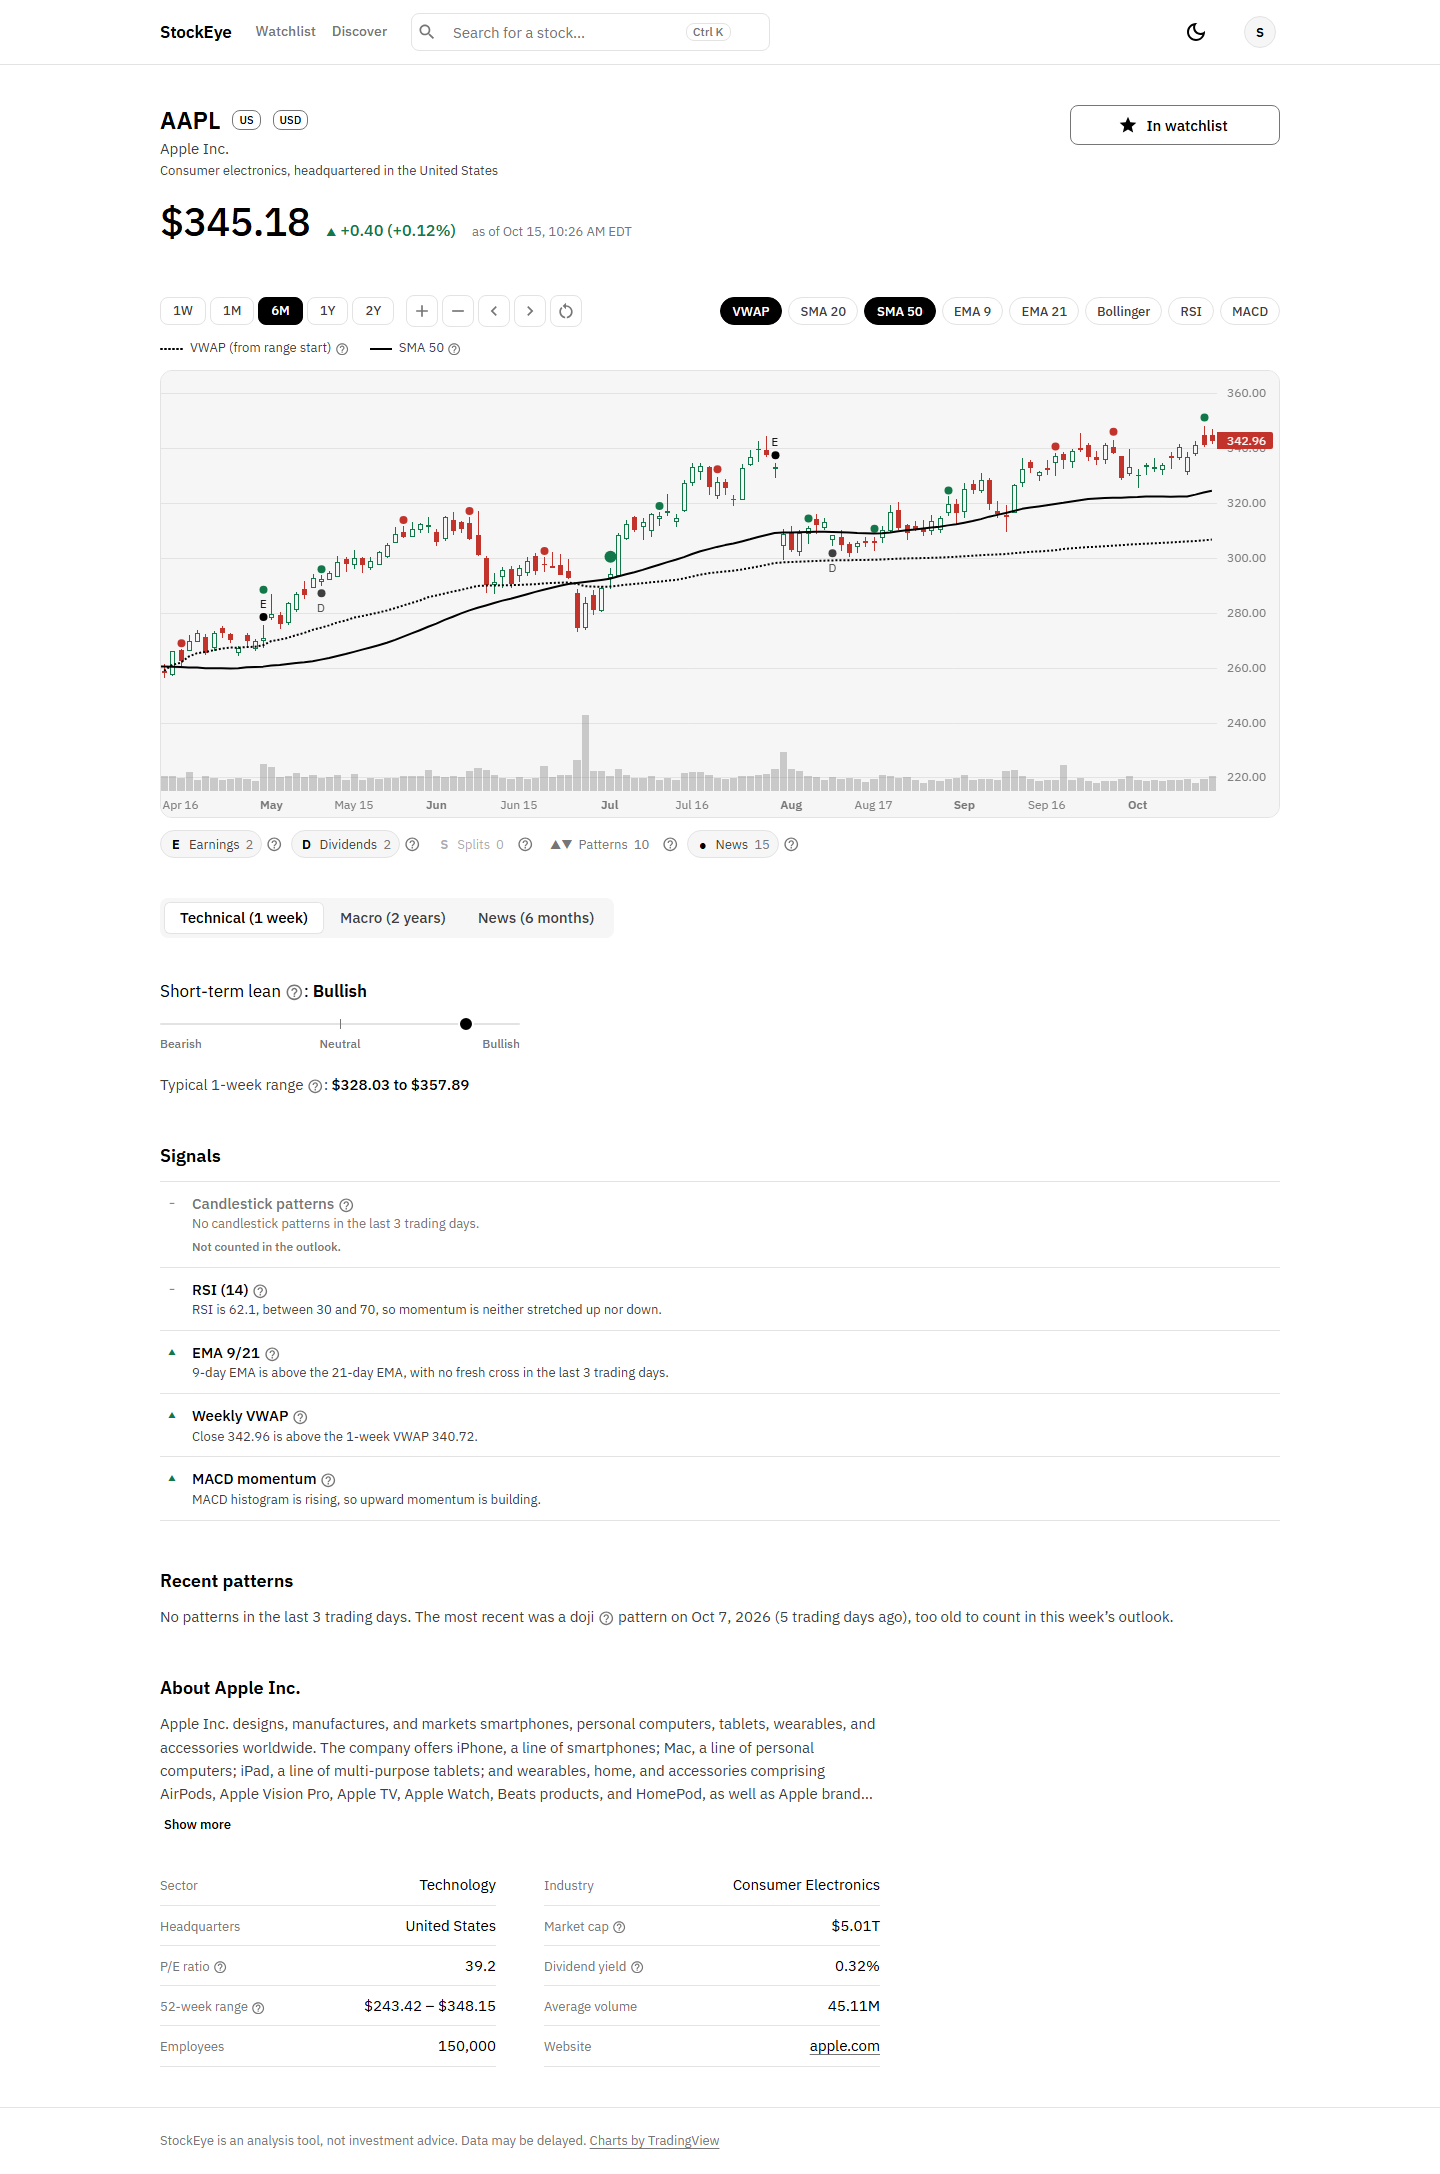
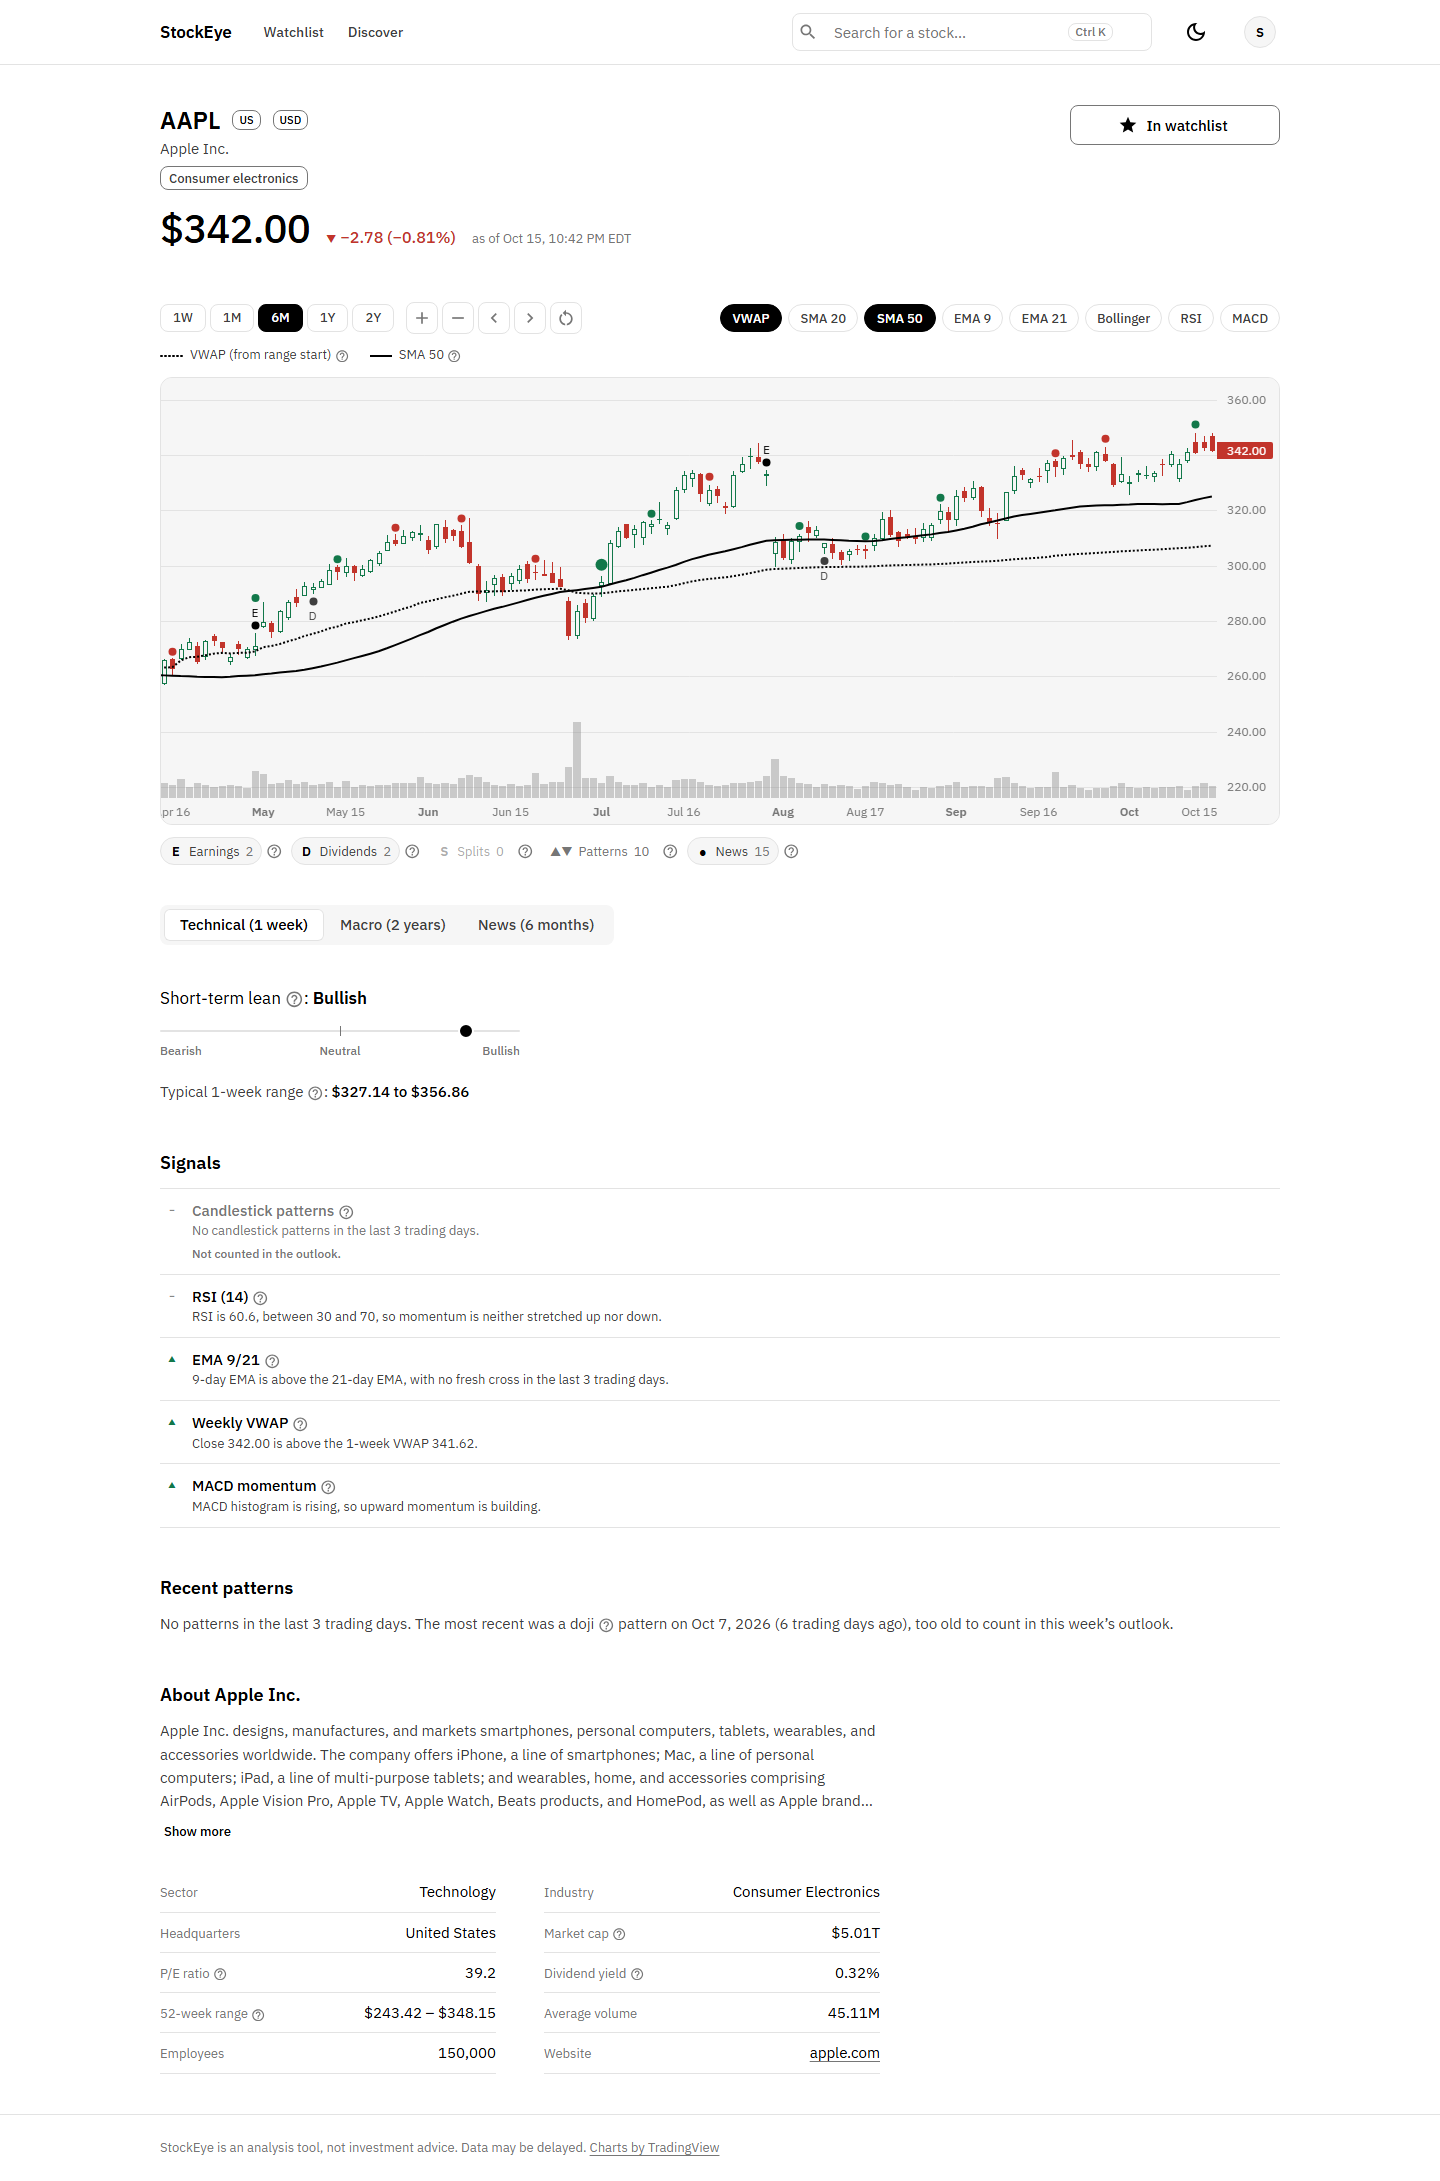
docs: phase 8 status; re-shoot screenshots

diff --git a/docs/PLAN.md b/docs/PLAN.md
@@ -559,3 +559,41 @@ macro wording; a security review for the changed news endpoint.
   `production` approval.
 - Follow-ups: `test_discover.py::test_a_marker_older_than_six_hours_no_longer_blocks_the_startup_build` flakes under full-suite
   load (passes alone); Dependabot major bumps.
+
+## Phase 8 (approved 2026-10-16): polish from Phase 7 testing
+
+The user tested Phase 7 locally and chose these options from `.handoff/sdd/report-P8.md`:
+
+| Item | Choice | What |
+|---|---|---|
+| Count chips | 1A | Count in a small bordered badge on the shared baseline; the selected chip's badge inverts |
+| Header line | 2A | Industry as an outlined sentence-case chip under the name; no "headquartered in…" (still in About) |
+| News months on phones | 3A | Chips on desktop, a themed select below `sm`; a one-line intro with one combined "?" term |
+| Sentiment chart | 4A | 8–12 px plot padding; the captions become a small axis with space around it |
+| Article volume | 5A + 5C | Drop same-day near-duplicates and low-value items at ingest; `is_recap`/`is_low_value` flags; delete articles older than 25 months |
+| "Delayed" price | Race fix + 6A | Root cause: a quota-ledger race refused calls falsely; "As of 3:58 PM" note with the reason on tap |
+| Top bar | 7A | Grouped spacing, search on the right, active link by ink colour plus a 2 px indicator |
+
+Branches, each from `main`:
+- `feat/backend-news-trim` (5A + 5C; methodology check, macro cache schema bump)
+- `feat/frontend-chips-news` (1A + 3A)
+- `feat/frontend-header-bar` (2A + 4A + 7A)
+
+### Phase 8 status
+- [x] "Delayed" price, root cause (item 6): a race in the quota ledger refused calls as "per-minute limit reached" with
+  3–4 of 60 used, so watchlist rows fell back to the saved price. Fixed; overview rows gain `status_as_of` (#52)
+- [x] Header industry chip, sentiment chart axis, grouped top bar (2A + 4A + 7A) (#53)
+- [x] Count badges (one shared `LabelWithCount`) and the News month select on phones (1A + 3A) (#54)
+- [x] Stale-price note (6A): "As of 3:58 PM", tap or hover for the reason, also on phones; a quiet refetch after 30 s, at
+  most 3 times (#55)
+- [x] News trim and retention (5A + 5C): same-day near-duplicates and low-value items (fund filings, quote stamps) are not
+  stored; `is_recap`/`is_low_value` flags; month counts in Mongo; a one-off startup pass flags and deduplicates stored
+  history; the study re-checks low-value titles; articles older than 25 months are pruned weekly; macro cache schema 9
+  (#56), with matching glossary wording (#57)
+- Reviews: Opus code review per item, iterated to APPROVED; security review of the overview field; methodology check of
+  the news trim (approved after history dedupe). Live checks at desktop and 375 px. Screenshots re-shot (admin shot
+  unchanged: it needs the admin login).
+- Measured locally: AAPL 2,125 → 1,928 stored articles (146 low-value, 51 duplicates); the startup pass took ~7 s on
+  9,301 articles (234 folds). RKLB's regime label moves from typical to more negative: each story now counts once.
+- Deploys: Pages publishes on merge; the backend image (#52, #56) waits for the user's `production` approval.
+- Follow-ups: Dependabot major bumps; the discover marker test flake under full-suite load.
